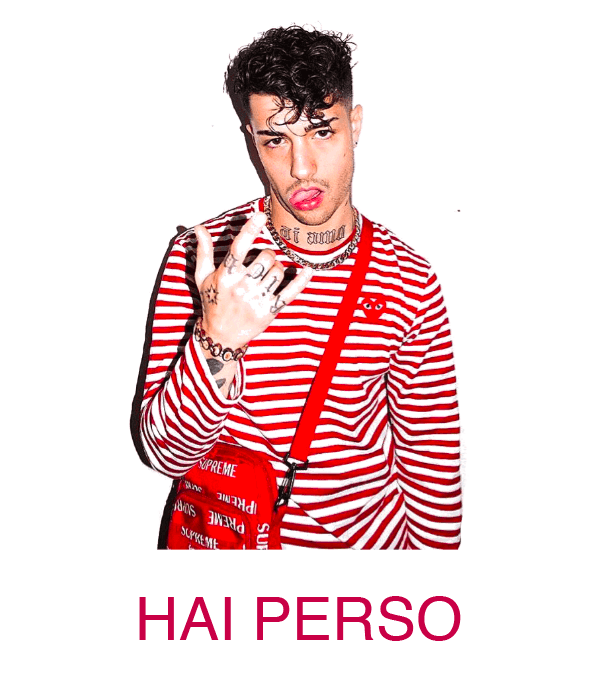
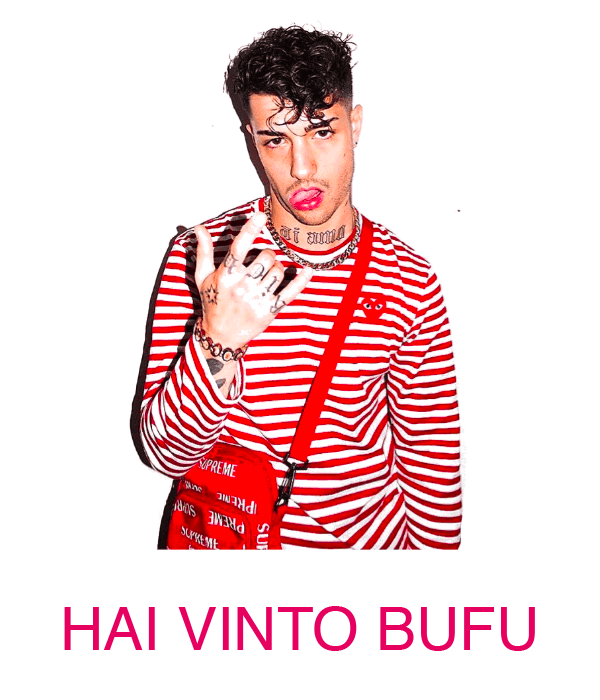
Set tony on win

Changed region(s): [[0.09, 0.84, 0.9, 0.93], [0.48, 0.27, 0.54, 0.3]]

diff --git a/Beta/777/Personaggio.cpp b/Beta/777/Personaggio.cpp
@@ -144,8 +144,8 @@ void Personaggio::personaggioAttaccaNemico(ListaNemici &nemici) {
     }
 }
 
-// fine del gioco
-void Personaggio::fineGioco(RenderWindow &Gioco)
+// fine del gioco --> ha perso
+void Personaggio::fineGiocoHaPerso(RenderWindow &Gioco)
 {
     if (vitaAttuale <= 0)
     {
@@ -158,6 +158,29 @@ void Personaggio::fineGioco(RenderWindow &Gioco)
         int posizione_x=0, posizione_y=0;
         Texture immagine;
         immagine.loadFromFile("../risorse/immagini/game-over.png");
+        Sprite tony(immagine);
+        posizione_x=(util.LARGHEZZA_DISPLAY-larghezza_immagine)/2;
+        posizione_y=(util.ALTEZZA_DISPLAY-altezza_immagine)/2;
+        tony.setPosition(posizione_x, posizione_y);
+        Gioco.draw(tony);
+    }
+}
+
+
+// fine del gioco --> ha vinto
+void Personaggio::fineGiocoHaVinto (RenderWindow &Gioco, int piano, int stanza)
+{
+    if((piano==util.GIOCO_FINITO_PIANO)&&(stanza==util.GIOCO_FINITO_STANZA))
+    {
+        RectangleShape sfondoTony(Vector2f(util.LARGHEZZA_DISPLAY, util.ALTEZZA_DISPLAY));
+        sfondoTony.setFillColor(Color::Black);
+        sfondoTony.setPosition(0,0);
+        Gioco.draw(sfondoTony);
+        // disegno la faccia di Tony
+        int larghezza_immagine=619, altezza_immagine=434;
+        int posizione_x=0, posizione_y=0;
+        Texture immagine;
+        immagine.loadFromFile("../risorse/immagini/tony.png");
         Sprite tony(immagine);
         posizione_x=(util.LARGHEZZA_DISPLAY-larghezza_immagine)/2;
         posizione_y=(util.ALTEZZA_DISPLAY-altezza_immagine)/2;

diff --git a/Beta/777/main.cpp b/Beta/777/main.cpp
@@ -260,8 +260,11 @@ int main()
         disegnaMappa(Gioco, grafica, lista_torre);
         // disegno l'erore
         disegnaElementiGrafici(Gioco, eroe, nemici, grafica);
-        // Aggiorno il Gioco con le modifiche
-        eroe.fineGioco(Gioco);
+        // controllo se ha perso
+        eroe.fineGiocoHaPerso(Gioco);
+        // controllo se ha vinto
+        eroe.fineGiocoHaVinto(Gioco, piano, stanza);
+        // display
         Gioco.display();
     }
     // programma terminato correttamente

diff --git a/Beta/777/Utilities.hpp b/Beta/777/Utilities.hpp
@@ -18,6 +18,9 @@ public:
     static const int SPAZIO_CELLE;
     static const int DIMENSIONE_CELLE;
 
+    static const int GIOCO_FINITO_PIANO;
+    static const int GIOCO_FINITO_STANZA;
+
     static const int NUMERO_CASELLE_ASSE_X;
     static const int NUMERO_CASELLE_ASSE_Y;
     static const int ALTEZZA_DISPLAY;

diff --git a/Beta/777/Personaggio.hpp b/Beta/777/Personaggio.hpp
@@ -47,7 +47,8 @@ public:
      */
      void eliminaNemico(ListaNemici &nemici, int posizione, bool &flag);
 
-    void fineGioco(RenderWindow &Gioco);
+    void fineGiocoHaPerso(RenderWindow &Gioco);
+    void fineGiocoHaVinto(RenderWindow &Gioco, int piano, int stanza);
 
 
     //Costruttore

diff --git a/Beta/777/Utilities.cpp b/Beta/777/Utilities.cpp
@@ -9,6 +9,9 @@ using namespace sf;
 
 const int Utilities::NUMERO_NEMICI_MASSIMO = 20;
 
+const int Utilities::GIOCO_FINITO_PIANO = 15;
+const int Utilities::GIOCO_FINITO_STANZA = 15;
+
 const int Utilities::NUMERO_CASELLE_ASSE_X = 20;
 const int Utilities::NUMERO_CASELLE_ASSE_Y = 20;
 
